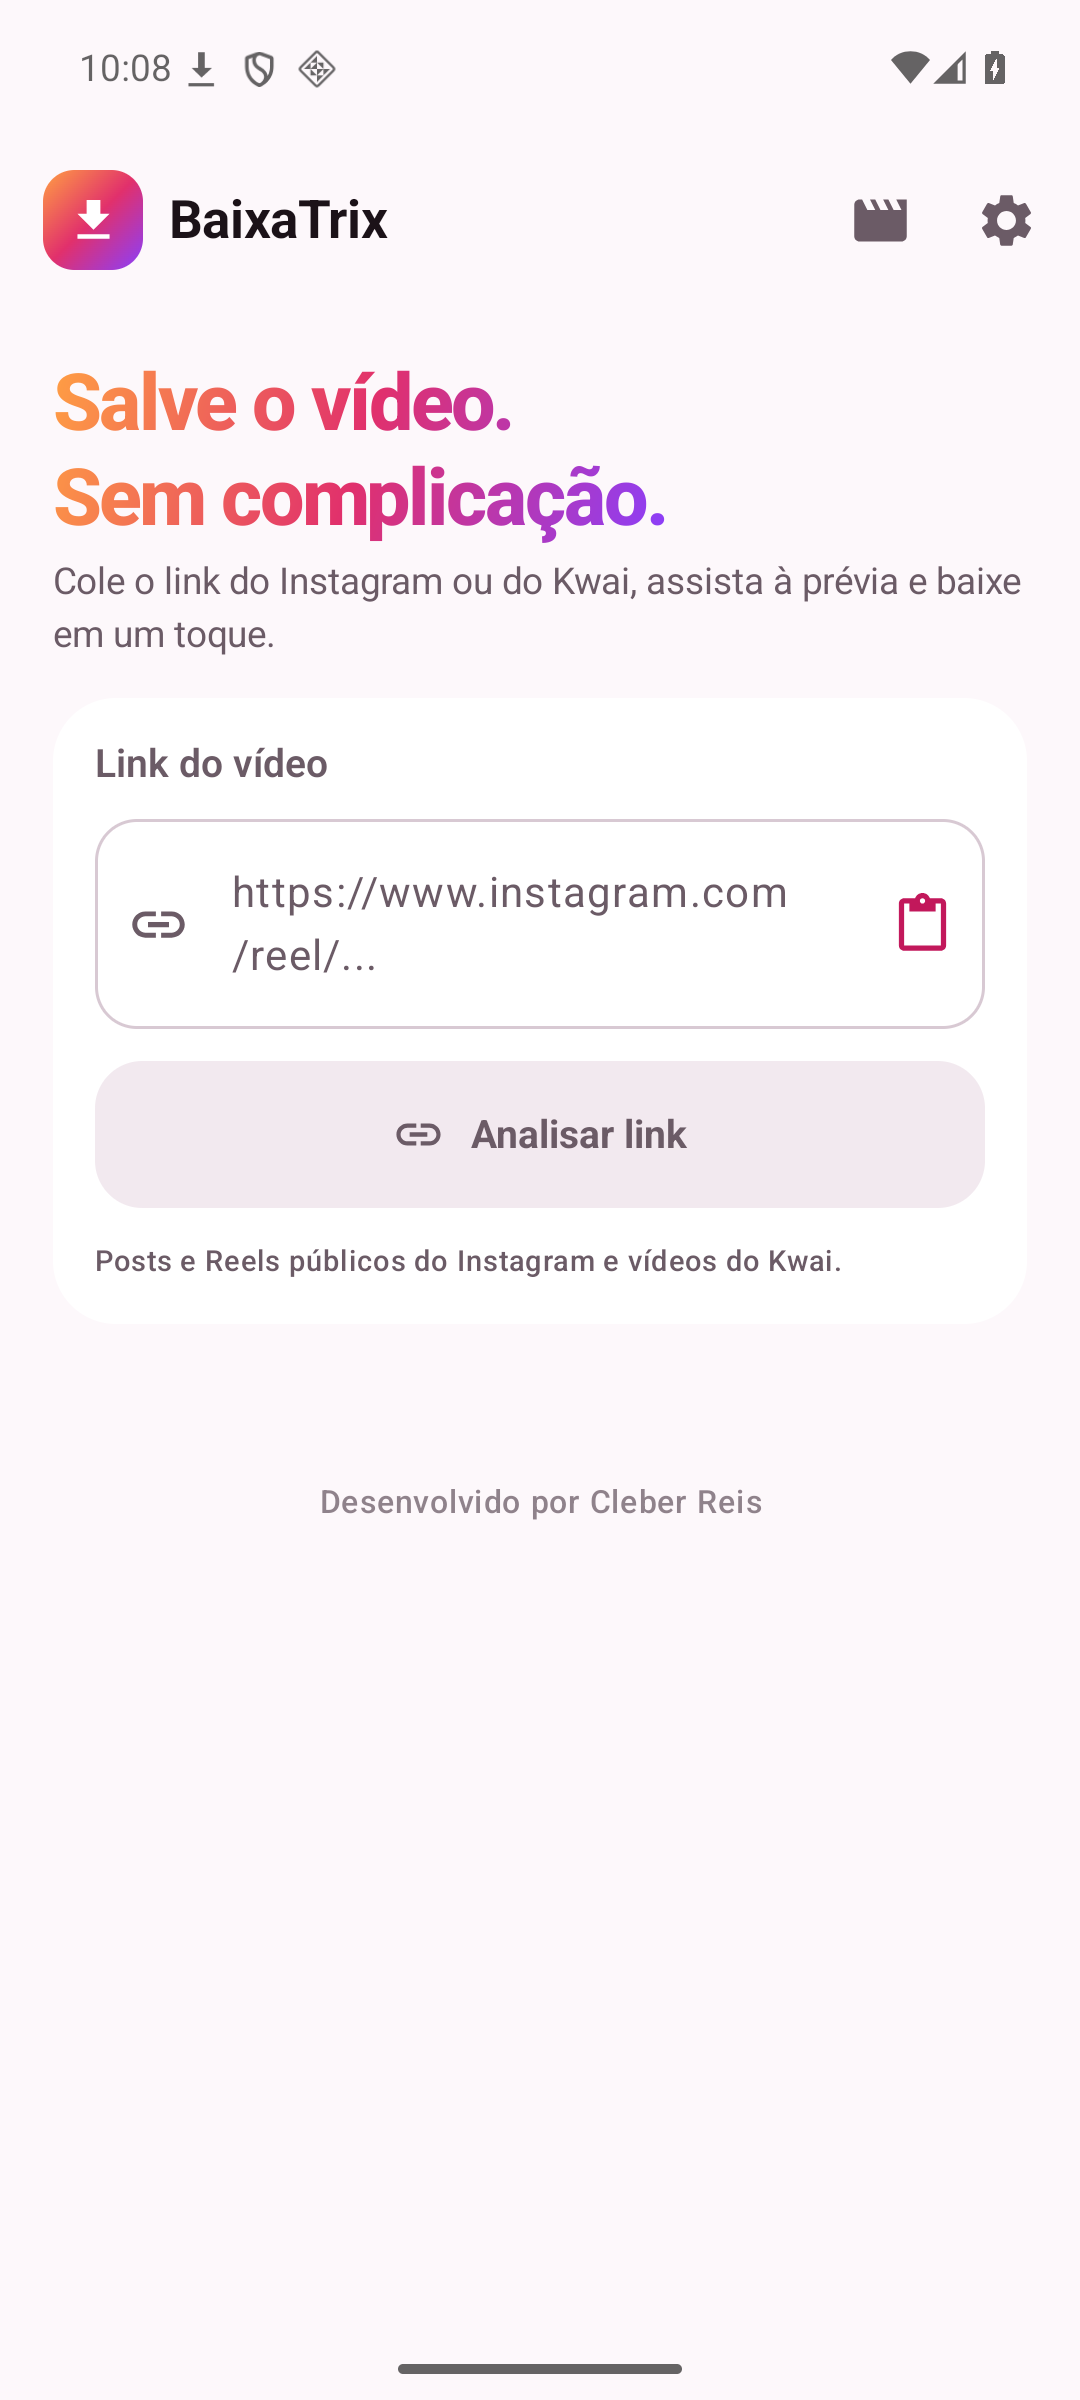
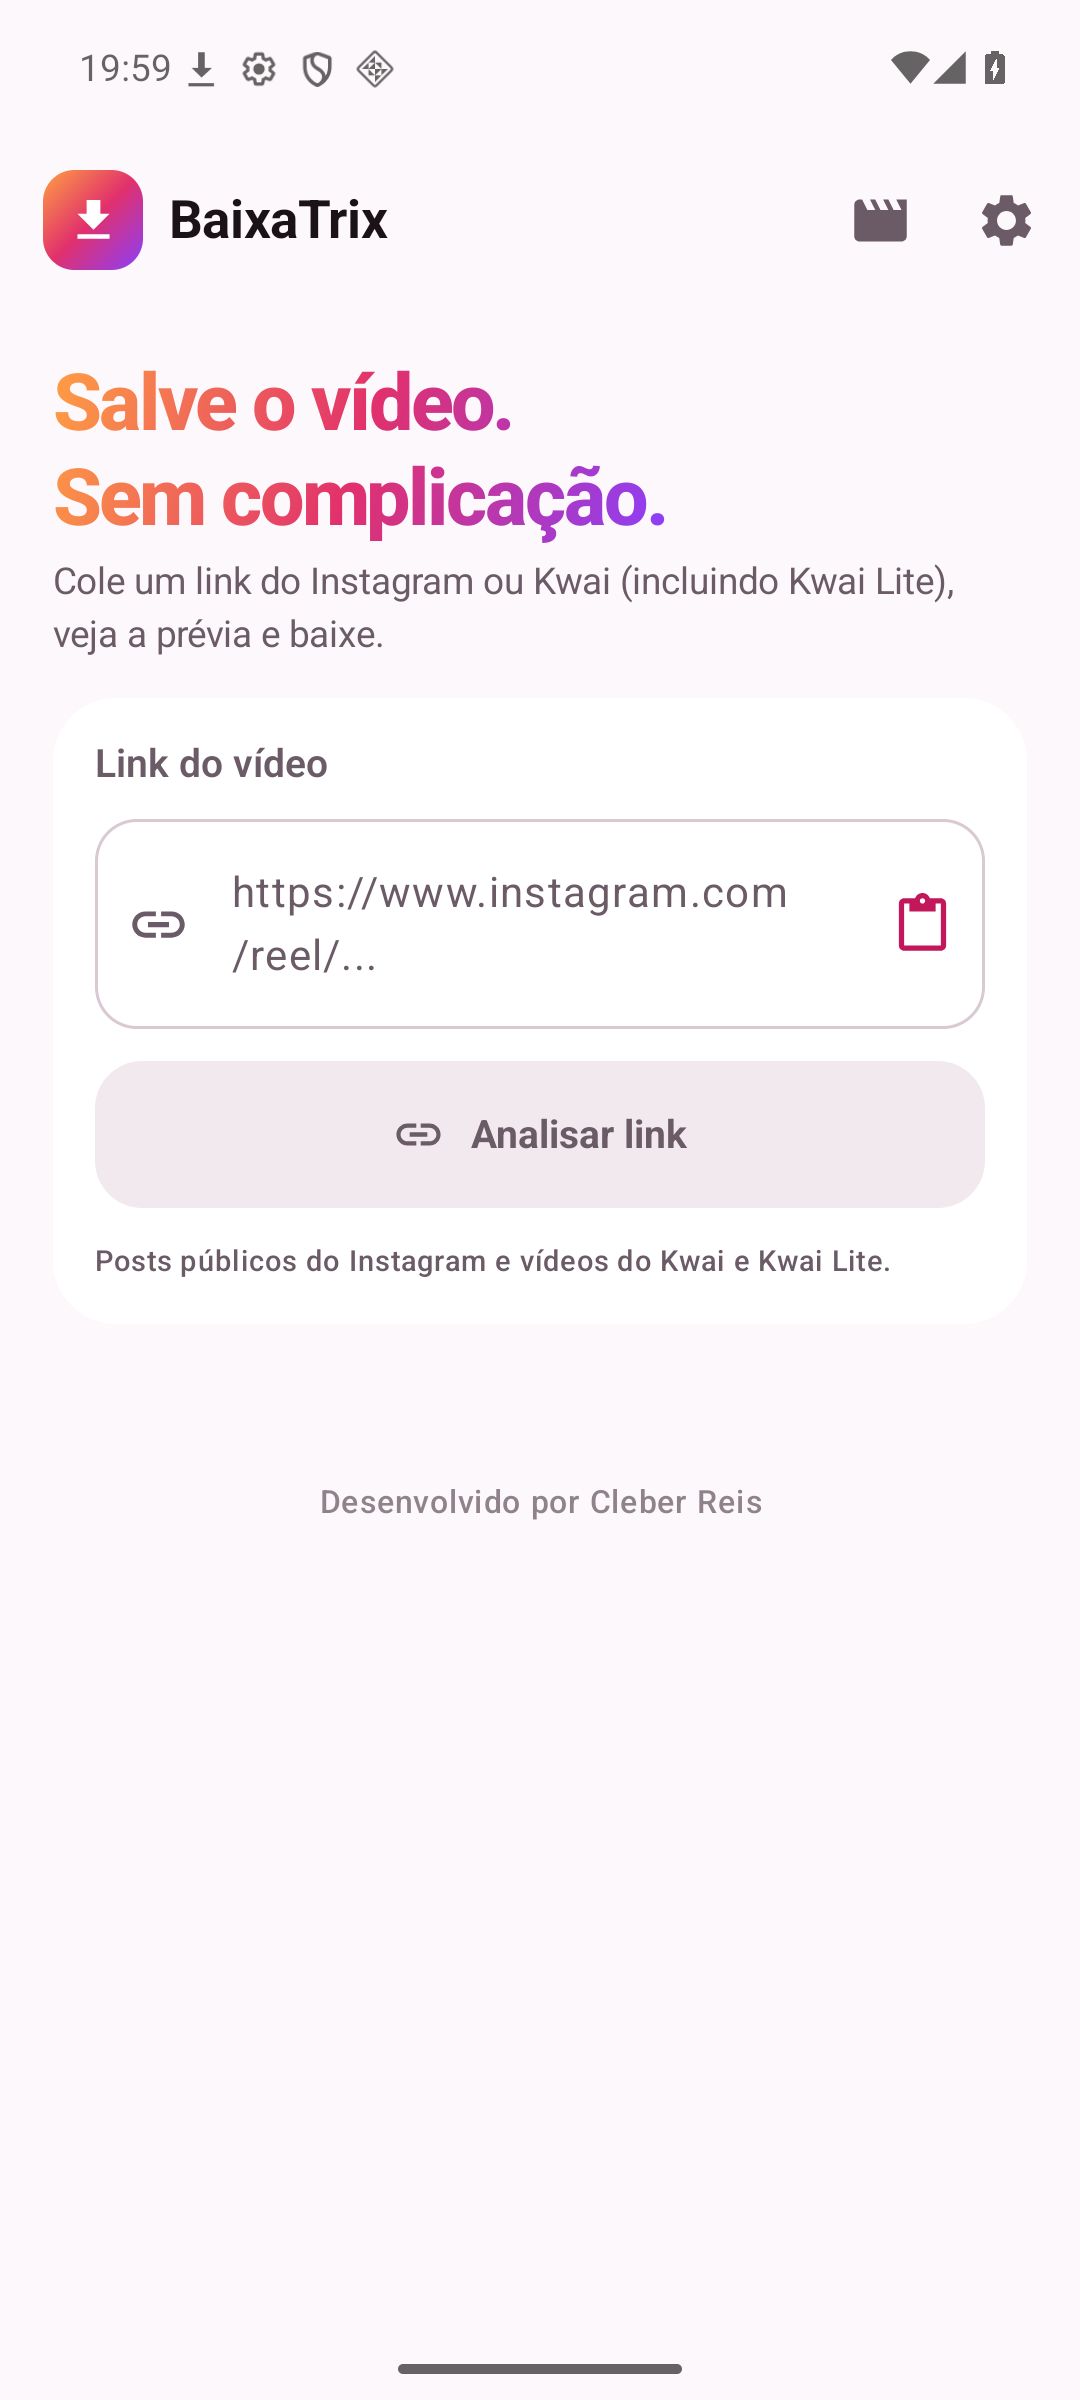
feat: add Kwai Lite links in BaixaTrix 2.2.0

diff --git a/app/src/main/java/com/cleber/baixatrix/util/LinkParser.kt b/app/src/main/java/com/cleber/baixatrix/util/LinkParser.kt
@@ -1,5 +1,7 @@
 package com.cleber.baixatrix.util
 
+import java.net.URI
+
 /** Plataformas suportadas nativamente pelo app. */
 enum class Platform(val label: String) {
     INSTAGRAM("Instagram"),
@@ -10,7 +12,7 @@ enum class Platform(val label: String) {
 /**
  * Utilitários para reconhecer e normalizar os links colados pelo usuário.
  * Aceita links completos (com parâmetros de rastreio) e textos que contenham
- * um link no meio, como o texto compartilhado pelo Instagram ou Kwai.
+ * um link no meio, como os textos compartilhados pelo Instagram, Kwai ou Kwai Lite.
  */
 object LinkParser {
 
@@ -26,10 +28,7 @@ object LinkParser {
         RegexOption.IGNORE_CASE
     )
 
-    private val kwaiRegex = Regex(
-        """(?:kwai\.com|kwai\.app|kwai\.video|k\.kwai)""",
-        RegexOption.IGNORE_CASE
-    )
+    private val kwaiDomains = setOf("kwai.com", "kwai.app", "kwai.video", "kwai-video.com")
 
     /** Extrai o primeiro link http(s) de um texto livre. */
     fun firstUrl(text: String): String? {
@@ -38,12 +37,28 @@ object LinkParser {
     }
 
     fun platform(url: String): Platform = when {
-        instagramRegex.containsMatchIn(url) -> Platform.INSTAGRAM
-        kwaiRegex.containsMatchIn(url) -> Platform.KWAI
+        isInstagramUrl(url) -> Platform.INSTAGRAM
+        isKwaiUrl(url) -> Platform.KWAI
         else -> Platform.OTHER
     }
 
-    /** Retorna true quando o texto contém um link do Instagram ou Kwai. */
+    private fun isInstagramUrl(url: String): Boolean {
+        val host = host(url) ?: return false
+        val isInstagramHost = hostMatches(host, "instagram.com") || hostMatches(host, "instagr.am")
+        return isInstagramHost && instagramRegex.containsMatchIn(url)
+    }
+
+    private fun isKwaiUrl(url: String): Boolean {
+        val host = host(url) ?: return false
+        return host == "k.kwai" || kwaiDomains.any { domain -> hostMatches(host, domain) }
+    }
+
+    private fun host(url: String): String? = runCatching { URI(url).host?.lowercase() }.getOrNull()
+
+    private fun hostMatches(host: String, domain: String): Boolean =
+        host == domain || host.endsWith(".$domain")
+
+    /** Retorna true quando o texto contém link de uma plataforma suportada. */
     fun supports(text: String): Boolean {
         val url = firstUrl(text) ?: return false
         return platform(url) != Platform.OTHER

diff --git a/app/src/test/java/com/cleber/baixatrix/util/LinkParserTest.kt b/app/src/test/java/com/cleber/baixatrix/util/LinkParserTest.kt
@@ -43,6 +43,25 @@ class LinkParserTest {
     }
 
     @Test
+    fun `extrai link compartilhado do Kwai Lite com frase antes`() {
+        val text = "Esse clipe me faz querer assistir novamente! https://kwai-video.com/p/0Cy4wPFd"
+
+        val url = LinkParser.firstUrl(text)
+
+        assertEquals("https://kwai-video.com/p/0Cy4wPFd", url)
+        assertEquals(Platform.KWAI, LinkParser.platform(url.orEmpty()))
+        assertTrue(LinkParser.supports(text))
+    }
+
+    @Test
+    fun `nao confunde dominio parecido com Kwai Lite`() {
+        assertEquals(
+            Platform.OTHER,
+            LinkParser.platform("https://not-kwai-video.com/p/0Cy4wPFd")
+        )
+    }
+
+    @Test
     fun `link de outro site nao e suportado`() {
         val url = "https://www.youtube.com/watch?v=abc"
         assertEquals(Platform.OTHER, LinkParser.platform(url))

diff --git a/app/src/main/java/com/cleber/baixatrix/ui/HomeScreen.kt b/app/src/main/java/com/cleber/baixatrix/ui/HomeScreen.kt
@@ -280,7 +280,7 @@ private fun Hero() {
             )
         )
         Text(
-            text = "Cole o link do Instagram ou do Kwai, assista à prévia e baixe em um toque.",
+            text = "Cole um link do Instagram ou Kwai (incluindo Kwai Lite), veja a prévia e baixe.",
             style = MaterialTheme.typography.bodyMedium,
             color = MaterialTheme.colorScheme.onSurfaceVariant
         )
@@ -345,7 +345,7 @@ private fun LinkCard(
                 icon = painterResource(R.drawable.ic_link)
             )
             Text(
-                text = "Posts e Reels públicos do Instagram e vídeos do Kwai.",
+                text = "Posts públicos do Instagram e vídeos do Kwai e Kwai Lite.",
                 style = MaterialTheme.typography.labelSmall,
                 color = MaterialTheme.colorScheme.onSurfaceVariant
             )

diff --git a/app/src/main/java/com/cleber/baixatrix/data/resolver/KwaiResolver.kt b/app/src/main/java/com/cleber/baixatrix/data/resolver/KwaiResolver.kt
@@ -11,8 +11,8 @@ import com.cleber.baixatrix.util.Platform
 /**
  * Extrator do Kwai.
  *
- * O link curto (k.kwai.com) é resolvido seguindo os redirecionamentos até a
- * página do vídeo. A página entrega o arquivo dentro de blocos JSON
+ * Links curtos do Kwai e do Kwai Lite são resolvidos seguindo redirecionamentos
+ * até a página do vídeo. A página entrega o arquivo dentro de blocos JSON
  * (photoUrl / mainMvUrls / manifest) e também em tags <video>.
  */
 class KwaiResolver : PlatformResolver {

diff --git a/docs/privacidade.html b/docs/privacidade.html
@@ -45,7 +45,7 @@
   <h2>O que o app faz com seus dados</h2>
   <ul>
     <li><strong>Links de vídeo</strong> são processados no próprio aparelho,
-      acessando diretamente Instagram ou Kwai. Nenhum link é enviado a
+      acessando diretamente Instagram, Kwai ou Kwai Lite. Nenhum link é enviado a
       servidores do desenvolvedor.</li>
     <li><strong>Cookies do Instagram:</strong> o BaixaTrix não solicita, lê,
       armazena nem importa cookies ou sessões do aplicativo Instagram. O app

diff --git a/app/src/main/java/com/cleber/baixatrix/data/MediaRepository.kt b/app/src/main/java/com/cleber/baixatrix/data/MediaRepository.kt
@@ -18,7 +18,7 @@ class MediaRepository {
             Platform.INSTAGRAM -> InstagramResolver().resolve(link)
             Platform.KWAI -> KwaiResolver().resolve(link)
             Platform.OTHER -> throw ResolveException(
-                "O BaixaTrix aceita links do Instagram e do Kwai."
+                "Este link não é do Instagram nem do Kwai."
             )
         }
     }

diff --git a/store/ficha-play.md b/store/ficha-play.md
@@ -1,4 +1,4 @@
-# Ficha da Play Store — BaixaTrix 2.1.0
+# Ficha da Play Store — BaixaTrix 2.2.0
 
 Arquivos de mídia em `store/`:
 
@@ -13,7 +13,7 @@ Arquivos de mídia em `store/`:
 | `capturas/05-compartilhar-lote.jpg` | Compartilhamento das partes em lote |
 
 Artefato de upload: `app/build/outputs/bundle/release/app-release.aab`
-(ou `dist/BaixaTrix-2.1.0.aab` — o AAB é assinado com a mesma keystore do APK).
+(ou `dist/BaixaTrix-2.2.0.aab` — o AAB é assinado com a mesma keystore do APK).
 
 ---
 
@@ -26,16 +26,16 @@ BaixaTrix — Instagram e Kwai
 ## Descrição curta (máx. 80)
 
 ```
-Salve vídeos do Instagram e do Kwai com prévia antes de baixar.
+Salve vídeos do Instagram, Kwai e Kwai Lite com prévia.
 ```
 
 ## Descrição completa (máx. 4000)
 
 ```
-BaixaTrix é o jeito mais direto de guardar aquele vídeo do Instagram ou do Kwai: cole o link, assista à prévia no player e só então baixe — em qualidade original e sem marca d'água adicional.
+BaixaTrix é o jeito mais direto de guardar aquele vídeo público do Instagram ou do Kwai/Kwai Lite: cole o link, assista à prévia no player e só então baixe — em qualidade original e sem marca d'água adicional.
 
 COMO FUNCIONA
-1. Copie o link do vídeo no Instagram ou no Kwai.
+1. Copie o link do vídeo no Instagram, Kwai ou Kwai Lite.
 2. Abra o BaixaTrix: o link é detectado automaticamente (ou toque em Colar).
 3. Veja a prévia no player, confira autor, duração e qualidade.
 4. Toque em Baixar vídeo. Pronto: o arquivo vai para Filmes/BaixaTrix.
@@ -45,7 +45,7 @@ DESTAQUES
 • Download em segundo plano: continua mesmo se você fechar o app, com notificação de progresso e retomada automática.
 • Baixar e dividir em partes de 30s sem reencodificar; compartilhe todas as partes de uma vez ou envie ao WhatsApp como documentos.
 • Meus vídeos: biblioteca com miniaturas, tamanho e data, para abrir, compartilhar ou excluir.
-• Recebe links de outros apps: no Instagram, toque em Compartilhar → BaixaTrix.
+• Recebe links de outros apps: no Instagram, Kwai ou Kwai Lite, toque em Compartilhar → BaixaTrix.
 • Seletor de qualidade quando o site oferece mais de uma versão.
 • Tema claro e escuro, Material 3, em português.
 
@@ -56,7 +56,7 @@ CONTEÚDO PRIVADO E LOGIN
 O BaixaTrix não oferece suporte a downloads de posts privados e não solicita, aceita ou importa cookies/sessionid do Instagram. Alguns posts públicos podem não ser resolvidos se o Instagram exigir login. O aplicativo não oferece configuração de servidor de extração.
 
 USO RESPONSÁVEL
-Baixe apenas vídeos seus ou que você tenha autorização para usar. Respeite direitos autorais e os Termos de Uso do Instagram e do Kwai. O BaixaTrix não é afiliado a essas plataformas.
+Baixe apenas vídeos seus ou que você tenha autorização para usar. Respeite direitos autorais e os Termos de Uso do Instagram e do Kwai/Kwai Lite. O BaixaTrix não é afiliado a essas plataformas.
 
 Requisitos: Android 8.0 ou superior.
 ```
@@ -64,7 +64,7 @@ Requisitos: Android 8.0 ou superior.
 ## Categoria e tags
 
 - Categoria: **Ferramentas** (Tools)
-- Tags: download de vídeo, Instagram, Kwai, player
+- Tags: download de vídeo, Instagram, Kwai, Kwai Lite, player
 - E-mail de contato: clebersys@users.noreply.github.com
 - Site: https://github.com/clebersys/baixatrix
 - Política de privacidade: https://clebersys.github.io/baixatrix/privacidade.html
@@ -81,7 +81,7 @@ Requisitos: Android 8.0 ou superior.
 ## Segurança dos dados (Data safety)
 
 - Coleta ou compartilha dados? **Não**
-- Dados criptografados em trânsito: sim (HTTPS com Instagram/Kwai)
+- Dados criptografados em trânsito: sim (HTTPS com Instagram, Kwai e Kwai Lite)
 - Usuário pode solicitar exclusão: sim (apagar a pasta e desinstalar)
 - Sem anúncios, sem SDKs de analytics
 - Links são resolvidos no próprio aparelho; o app não disponibiliza campo para
@@ -95,7 +95,7 @@ Requisitos: Android 8.0 ou superior.
 ## Novidades desta versão (release notes)
 
 ```
-• Ajustes simplificados: removida a configuração avançada de servidor de extração.
-• BaixaTrix usa apenas os extratores locais para Instagram e Kwai.
-• Nenhuma opção para inserir ou armazenar cookies/sessionid do Instagram.
+• Links compartilhados do Kwai Lite são reconhecidos pelo BaixaTrix.
+• A prévia, download, divisão em 30s e compartilhamento em lote continuam iguais.
+• O processamento continua local, sem servidor configurável nem cookies do Instagram.
 ```

diff --git a/docs/SPEC-kwai-lite-link-compat.md b/docs/SPEC-kwai-lite-link-compat.md
@@ -1,0 +1,65 @@
+# Spec: compatibilidade com links do Kwai Lite
+
+## Objetivo
+
+Permitir que o BaixaTrix analise links compartilhados pelo Kwai Lite. O app
+deve reutilizar o extrator Kwai existente quando o link aponta para os domínios
+e formatos já suportados, sem apresentar Kwai Lite como uma plataforma técnica
+separada.
+
+## Tech stack
+
+- Kotlin, Android e Jetpack Compose.
+- Resolução de link por `LinkParser` e `KwaiResolver`.
+- Modelo de saída `ResolvedMedia`.
+
+## Comandos
+
+```bash
+./gradlew testDebugUnitTest
+./gradlew assembleDebug
+```
+
+## Estrutura do projeto
+
+- Parser: `app/src/main/java/com/cleber/baixatrix/util/LinkParser.kt`
+- Resolver: `app/src/main/java/com/cleber/baixatrix/data/resolver/KwaiResolver.kt`
+- Testes: `app/src/test/java/com/cleber/baixatrix/util/LinkParserTest.kt`
+
+## Estilo de código
+
+Seguir o padrão Kotlin existente: hosts aceitos ficam explícitos no parser;
+links curtos são resolvidos por redirecionamento HTTP; o extrator retorna
+`ResolvedMedia` e erros amigáveis, sem lógica de UI no resolver.
+
+## Estratégia de testes
+
+- Testar `https://kwai-video.com/p/0Cy4wPFd`, que em verificação HTTP redirecionou
+  para uma página pública `kwai.com/@.../video/...`.
+- Testar o texto compartilhado completo `Esse clipe me faz querer assistir
+  novamente! https://kwai-video.com/p/0Cy4wPFd` e confirmar que o parser extrai
+  somente a URL.
+- Testar outros hosts e caminhos que o Kwai Lite compartilhe, se houver.
+- Reutilizar testes de parser unitários para cada novo formato confirmado.
+- Fazer teste manual com link público real do Kwai Lite para confirmar que
+  prévia, download, divisão e compartilhamento continuam funcionando.
+
+## Limites
+
+- Sempre: tratar o link como Kwai se ele usar um formato público já servido pelo
+  Kwai (`kwai-video.com/p/...`, `kwai.com`, `kwai.app`, `kwai.video` ou `k.kwai`).
+- Ask first: adicionar um host novo que não possa ser confirmado como link de
+  compartilhamento do Kwai Lite.
+- Nunca: autenticar, capturar cookies ou tentar acessar vídeos privados.
+
+## Critérios de sucesso
+
+- Um link público compartilhado pelo Kwai Lite é reconhecido e resolvido.
+- A frase introdutória do compartilhamento é ignorada pelo parser de URL.
+- A plataforma continua identificada como Kwai na interface.
+- Não há regressão nos links Kwai já suportados.
+
+## Verificação ainda necessária
+
+O redirecionamento do exemplo foi confirmado, mas ainda é necessário validar
+que a página final entrega o arquivo de vídeo ao resolver Kwai.

diff --git a/README.md b/README.md
@@ -24,7 +24,8 @@ qualidade original, sem marca d'água adicional.
 ## Funcionalidades
 
 - **Colar link** com um toque (ou digitando) — aceita links de `instagram.com/p`,
-  `/reel`, `/reels`, `/tv` e `kwai.com`, `k.kwai.com`, `kwai.app`.
+  `/reel`, `/reels`, `/tv`, `kwai.com`, `k.kwai.com`, `kwai.app` e links do
+  Kwai Lite (`kwai-video.com/p/...`).
 - **Prévia antes de baixar** com player embutido (ExoPlayer), capa, autor,
   duração e seletor de qualidade quando o site oferece mais de uma.
 - **Download em segundo plano** pelo DownloadManager: continua se você sair do
@@ -49,7 +50,7 @@ O app resolve tudo no próprio aparelho, sem depender de serviços de terceiros:
 
 | Plataforma | Estratégia |
 |---|---|
-| **Kwai** | A página do vídeo entrega o MP4 no HTML (`<a-video-player src=…>`). O app segue o link curto (`k.kwai.com`), pega o vídeo principal (ignorando recomendações) e usa capa/título do Open Graph. |
+| **Kwai / Kwai Lite** | Os links do Kwai Lite redirecionam para o Kwai. A página entrega o MP4 no HTML (`<a-video-player src=…>`); o app pega o vídeo principal (ignorando recomendações) e usa capa/título do Open Graph. |
 | **Instagram** | Para posts públicos, o app tenta a página de *embed* (`/embed/captioned/`) e as tags Open Graph. O app não solicita, aceita nem lê cookies ou `sessionid` do Instagram. |
 
 ### Limitações reais (leia antes de usar)
@@ -71,8 +72,8 @@ O app resolve tudo no próprio aparelho, sem depender de serviços de terceiros:
 O APK assinado pronto para uso fica em `dist/`:
 
 ```bash
-adb install -r dist/BaixaTrix-2.1.0.apk
-sha256sum -c dist/BaixaTrix-2.1.0.apk.sha256   # confere a integridade
+adb install -r dist/BaixaTrix-2.2.0.apk
+sha256sum -c dist/BaixaTrix-2.2.0.apk.sha256   # confere a integridade
 ```
 
 **BaixaTrix 2.0.0 usa um novo identificador Android**
@@ -135,7 +136,7 @@ backend/                            # utilitário independente de desenvolviment
 
 O pacote para a Play Store está pronto:
 
-- **AAB assinado**: `dist/BaixaTrix-2.1.0.aab` (`./gradlew bundleRelease`)
+- **AAB assinado**: `dist/BaixaTrix-2.2.0.aab` (`./gradlew bundleRelease`)
 - **Ficha pronta** (título, descrições, categoria, Data safety): [`store/ficha-play.md`](store/ficha-play.md)
 - **Artes**: ícone 512, gráfico de destaque 1024×500 e capturas em [`store/`](store/)
 - **Passo a passo do Play Console**: [`store/publicacao-play.md`](store/publicacao-play.md)

diff --git a/store/publicacao-play.md b/store/publicacao-play.md
@@ -30,7 +30,7 @@ então esses passos são manuais.
 
 1. Gere/atualize o pacote: `./gradlew bundleRelease`
 2. Copie `app/build/outputs/bundle/release/app-release.aab` (ou use
-   `dist/BaixaTrix-2.1.0.aab`).
+   `dist/BaixaTrix-2.2.0.aab`).
 3. Play Console → **Testar e lançar → Teste interno → Criar nova versão** →
    envie o `.aab`.
 4. Ative o **Play App Signing** (recomendado). Guarde a keystore atual: ela
@@ -98,7 +98,7 @@ Alternativas de distribuição que não dependem da Play Store:
 
 ```bash
 cd /home/cleber/Documentos/BaixaVideo
-gh release create v2.1.0 dist/BaixaTrix-2.1.0.apk dist/BaixaTrix-2.1.0.apk.sha256 \
-  --title "BaixaTrix 2.1.0" \
-  --notes "Ajustes simplificados: removida a configuração avançada de servidor e qualquer campo de cookie/sessionid. O app usa os extratores locais para Instagram e Kwai."
+gh release create v2.2.0 dist/BaixaTrix-2.2.0.apk dist/BaixaTrix-2.2.0.apk.sha256 \
+  --title "BaixaTrix 2.2.0" \
+  --notes "Links compartilhados do Kwai Lite agora são reconhecidos pelo BaixaTrix e resolvidos pelo extrator Kwai. Prévia, divisão em 30s e compartilhamento em lote continuam disponíveis."
 ```

diff --git a/PRIVACY.md b/PRIVACY.md
@@ -5,7 +5,7 @@
 O BaixaTrix não coleta, não armazena e não compartilha dados pessoais.
 
 - **Links de vídeo**: são processados no próprio aparelho, acessando
-  diretamente Instagram ou Kwai. Nenhum link é enviado a servidores do
+  diretamente Instagram, Kwai ou Kwai Lite. Nenhum link é enviado a servidores do
   desenvolvedor.
 - **Cookies do Instagram**: o BaixaTrix não solicita, lê, armazena nem importa
   cookies ou sessões do app Instagram. O aplicativo não possui configuração de
